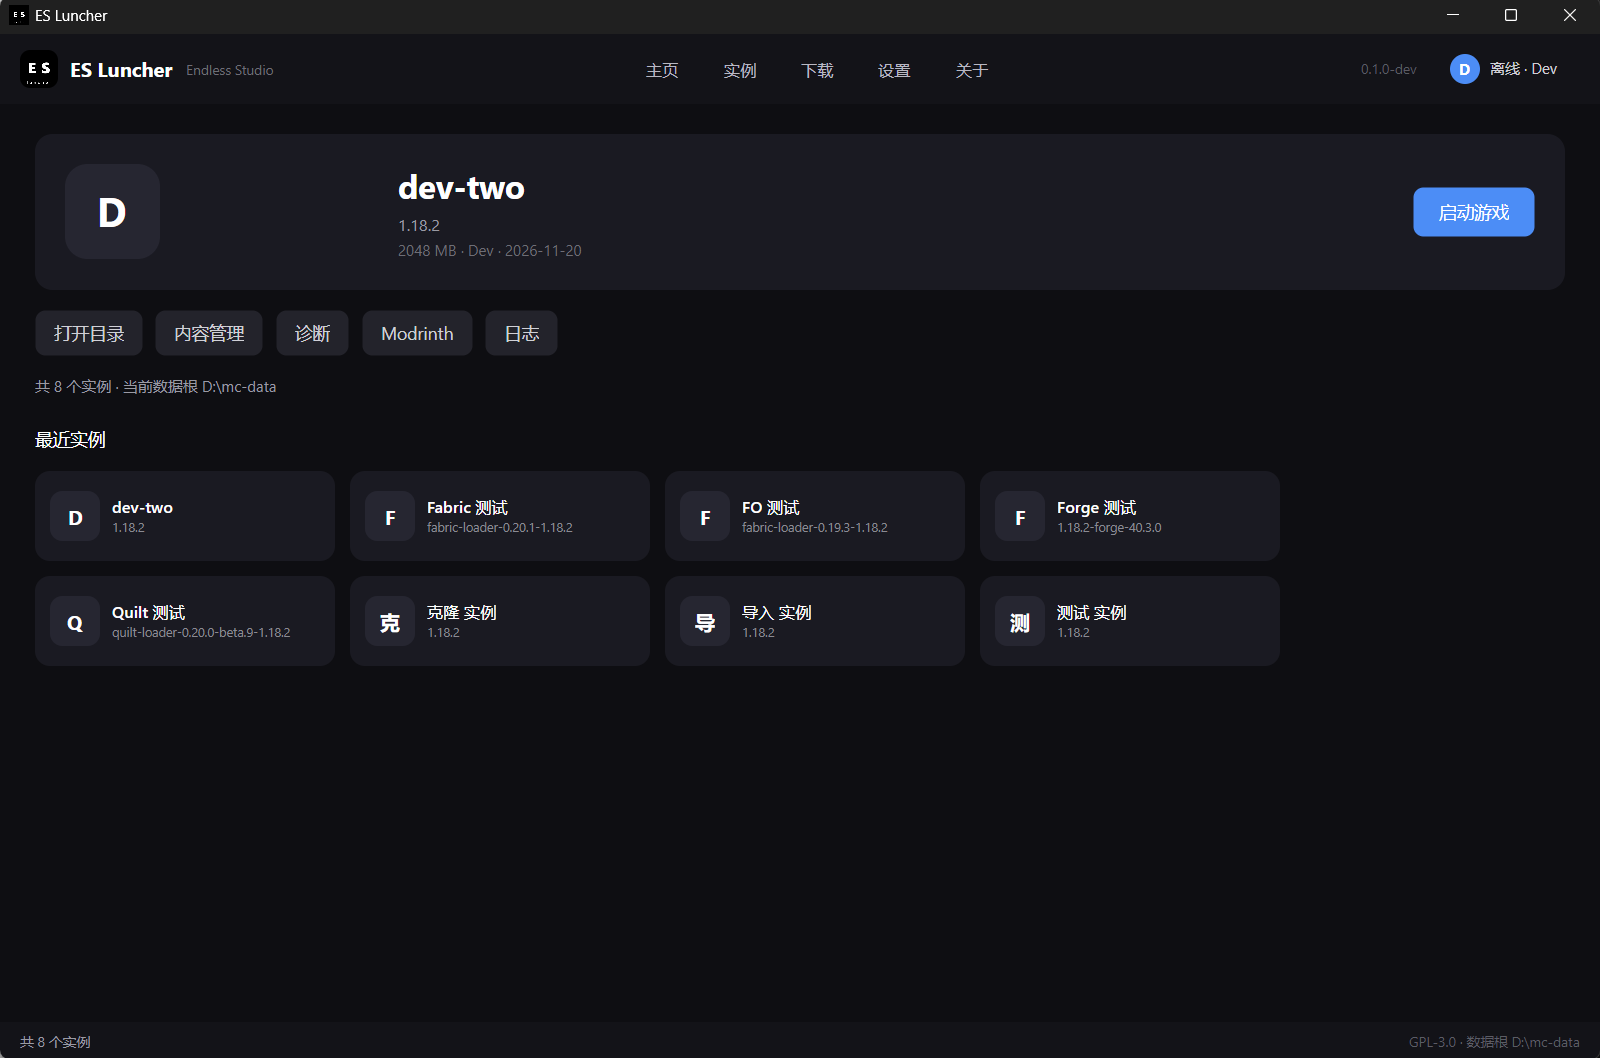
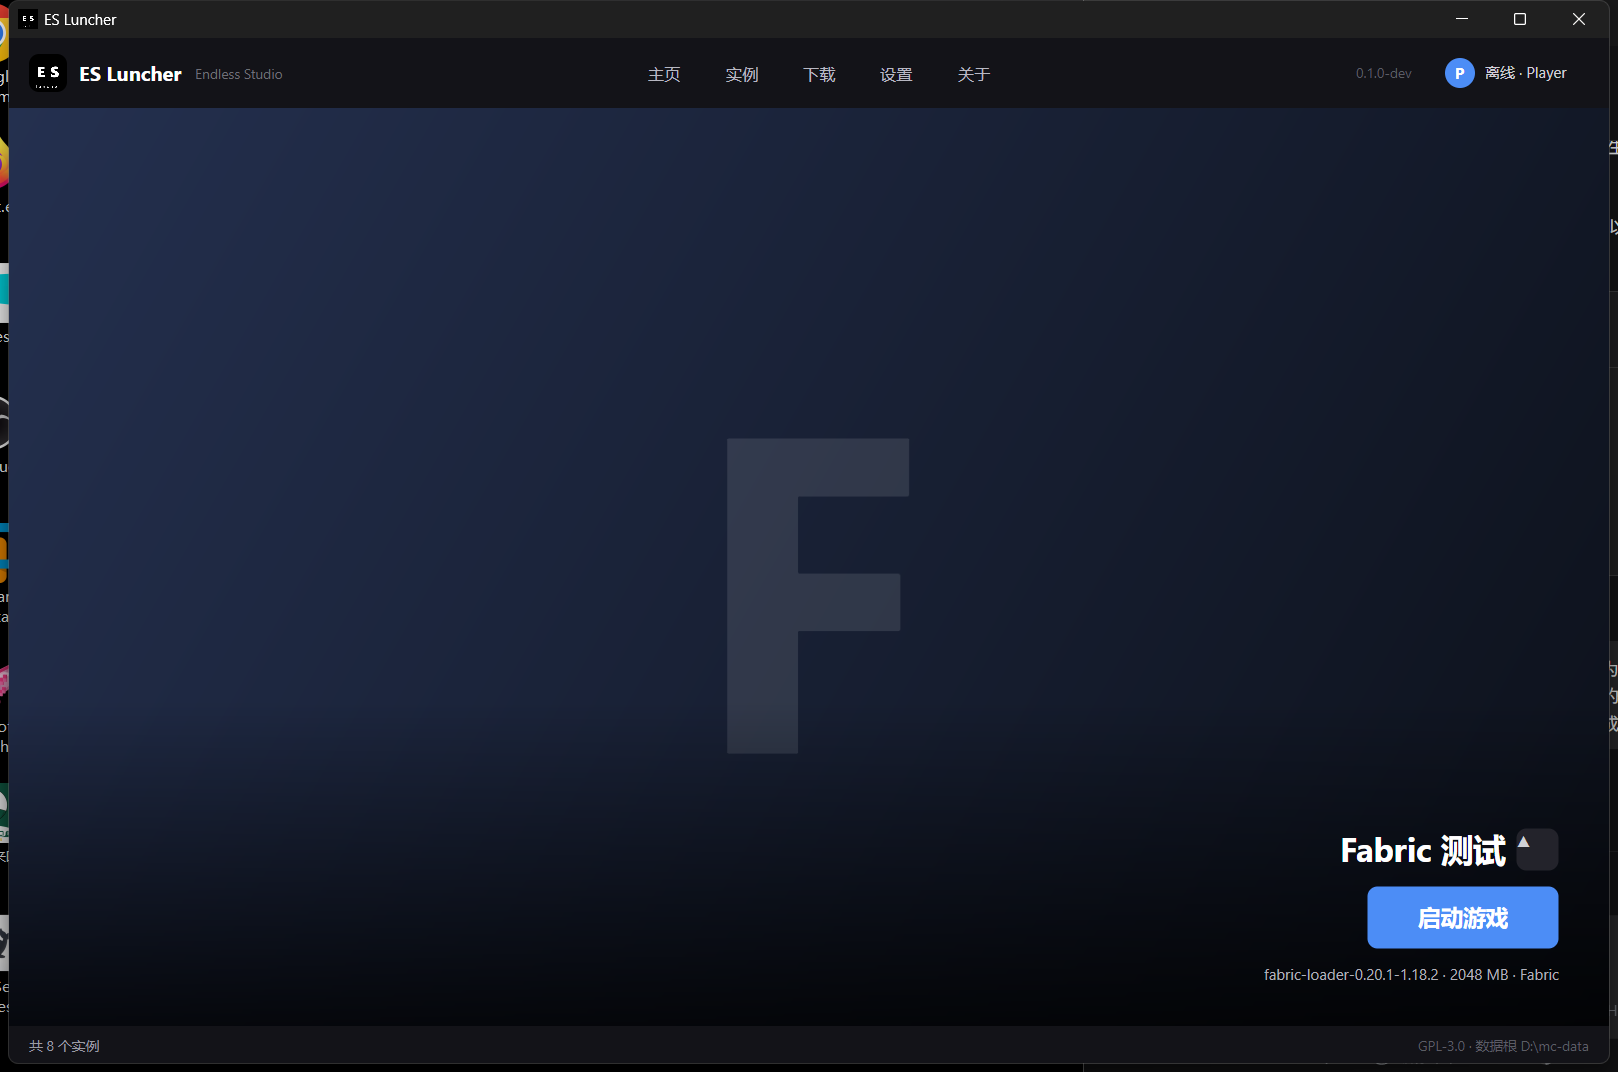
feat(ui): minimal home with instance showcase background and launch button
Home page redesigned: per-instance gradient background with oversized initial watermark, bottom-right instance name plus up-arrow popup for switching instances, launch button below, version/memory/group line; removed recent cards, shortcuts and summary. No animations. Evidence: home and popup screenshots, 0 warnings, 196 tests.

diff --git a/src/EsLuncher.App/MainWindow.axaml.cs b/src/EsLuncher.App/MainWindow.axaml.cs
@@ -2,6 +2,7 @@ using System.Diagnostics;
 using System.Text.Json;
 using Avalonia.Controls;
 using Avalonia.Interactivity;
+using Avalonia.Media;
 using Avalonia.Media.Imaging;
 using Avalonia.Platform;
 using Avalonia.Platform.Storage;
@@ -72,6 +73,12 @@ public partial class MainWindow : Window
             RefreshContent();
         }
 
+        // 开发/验收用：ESLUNCHER_UI_HOME_POPUP=1 直接展开主页实例选择弹层。
+        if (Environment.GetEnvironmentVariable("ESLUNCHER_UI_HOME_POPUP") == "1")
+        {
+            Avalonia.Threading.Dispatcher.UIThread.Post(() => InstancePopup.IsOpen = true);
+        }
+
         // 开发/验收用：ESLUNCHER_UI_DIALOG=diagnostics|modrinth 自动打开弹窗（截图用）。
         var dialog = Environment.GetEnvironmentVariable("ESLUNCHER_UI_DIALOG")?.ToLowerInvariant();
         if (dialog is "diagnostics" or "modrinth" or "accounts" && InstanceList.SelectedItem is InstanceItem selected)
@@ -124,6 +131,18 @@ public partial class MainWindow : Window
 
     private void OnGoInstancesClick(object? sender, RoutedEventArgs e) => ApplyNav("instances");
 
+    private static readonly (string Start, string End)[] HomeGradients =
+    [
+        ("#1F3B57", "#0B1521"),
+        ("#3A2440", "#120B16"),
+        ("#1E3B2F", "#0A1410"),
+        ("#3E2A1E", "#150F0B"),
+        ("#24304F", "#0C1019"),
+        ("#40202B", "#150A0F"),
+        ("#203A40", "#0A1214"),
+        ("#332E1F", "#120F0A"),
+    ];
+
     private void RefreshHome()
     {
         if (HomeName is null)
@@ -131,23 +150,59 @@ public partial class MainWindow : Window
             return;
         }
 
+        HomeInstanceList.ItemsSource = _allInstances;
+
         if (InstanceList?.SelectedItem is not InstanceItem item)
         {
-            HomeInitial.Text = "?";
-            HomeName.Text = "还没有实例";
-            HomeVersion.Text = "用「下载」页创建第一个实例";
-            HomeMeta.Text = string.Empty;
-            HomeSummary.Text = string.Empty;
+            HomeName.Text = "没有实例";
+            HomeWatermark.Text = string.Empty;
+            HomeVersionLabel.Text = "先去「下载」页创建一个实例";
+            HomeLaunchButton.IsEnabled = false;
+            HomeBackground.Background = new SolidColorBrush(Color.Parse("#141419"));
             return;
         }
 
-        HomeInitial.Text = item.Initial;
         HomeName.Text = item.Name;
-        HomeVersion.Text = item.Version;
-        HomeMeta.Text = item.Detail;
-        HomeSummary.Text = $"共 {_allInstances.Length} 个实例 · 当前数据根 {_layout.Root}";
-        HomeRecent.ItemsSource = _allInstances.Take(8).ToArray();
+        HomeWatermark.Text = item.Initial;
+        HomeVersionLabel.Text = $"{item.Version} · {item.Config.MemoryMb} MB"
+                                + (string.IsNullOrWhiteSpace(item.Group) ? string.Empty : $" · {item.Group}");
+        HomeLaunchButton.IsEnabled = true;
+        HomeInstanceList.SelectedItem = item;
+
+        var gradient = HomeGradients[Math.Abs(StringComparer.Ordinal.GetHashCode(item.Name)) % HomeGradients.Length];
+        HomeBackground.Background = new LinearGradientBrush
+        {
+            StartPoint = new Avalonia.RelativePoint(0, 0, Avalonia.RelativeUnit.Relative),
+            EndPoint = new Avalonia.RelativePoint(1, 1, Avalonia.RelativeUnit.Relative),
+            GradientStops =
+            {
+                new GradientStop(Color.Parse(gradient.Start), 0),
+                new GradientStop(Color.Parse(gradient.End), 1),
+            },
+        };
+
         RefreshAccount(item);
+    }
+
+    private void OnInstancePickerClick(object? sender, RoutedEventArgs e)
+    {
+        InstancePopup.IsOpen = !InstancePopup.IsOpen;
+    }
+
+    private void OnHomeInstanceSelected(object? sender, SelectionChangedEventArgs e)
+    {
+        if (HomeInstanceList.SelectedItem is not InstanceItem item)
+        {
+            return;
+        }
+
+        if (ReferenceEquals(item, InstanceList.SelectedItem))
+        {
+            return;
+        }
+
+        InstanceList.SelectedItem = item;
+        InstancePopup.IsOpen = false;
     }
 
     private void RefreshAccount(InstanceItem? item)
@@ -186,20 +241,6 @@ public partial class MainWindow : Window
         if (InstanceList.SelectedItem is InstanceItem current)
         {
             RefreshAccount(current);
-        }
-    }
-
-    private void OnRecentInstanceClick(object? sender, RoutedEventArgs e)
-    {
-        if (sender is not Button { Tag: string name })
-        {
-            return;
-        }
-
-        var match = _allInstances.FirstOrDefault(candidate => candidate.Name == name);
-        if (match is not null)
-        {
-            InstanceList.SelectedItem = match;
         }
     }
 
